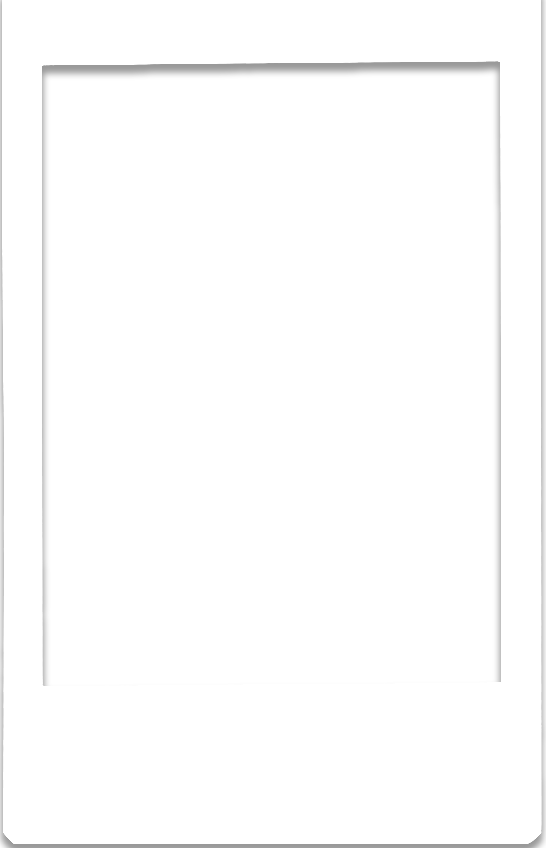
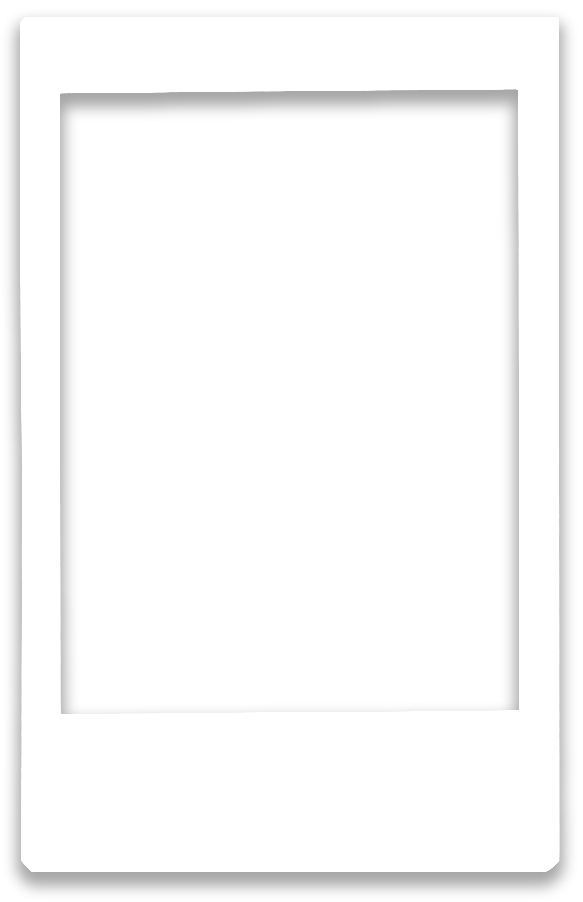
FIX: photoframe 수정 - #11

Changed region(s): [[0.0, 0.0, 1.0, 1.0]]

diff --git a/Wispy/components/FramedImagePreview.js b/Wispy/components/FramedImagePreview.js
@@ -5,20 +5,17 @@ import { View, Text, Image, StyleSheet, Dimensions } from 'react-native';
 const FRAME_IMAGE = require('../assets/images/photoframe.png'); // 실제 경로 확인
 const { width: windowWidth } = Dimensions.get('window');
 
-// 프레임 이미지의 실제 비율과 내부 사진 영역 비율을 알아야 정확한 배치가 가능합니다.
-// 아래 값들은 photoframe.png 이미지에 맞춰 조정해야 합니다.
-// 예시: 프레임 이미지의 가로:세로 비율이 1:1.2 이고,
-// 내부 사진 영역이 프레임 너비의 80%, 높이의 70% 정도라고 가정.
-const FRAME_ASPECT_RATIO = 1 / 1.5; // 프레임의 가로/세로 비율 (조정 필요)
-const PHOTO_AREA_WIDTH_RATIO = 0.84; // 프레임 너비 대비 사진 영역 너비 비율 (조정 필요)
-const PHOTO_AREA_HEIGHT_RATIO = 0.73; // 프레임 높이 대비 사진 영역 높이 비율 (조정 필요)
-const PHOTO_AREA_OFFSET_TOP_RATIO = 0.07; // 프레임 상단에서 사진 영역 시작점 오프셋 비율 (조정 필요)
-const PHOTO_AREA_OFFSET_LEFT_RATIO = 0.075; // 프레임 좌측에서 사진 영역 시작점 오프셋 비율 (조정 필요)
+// 프레임 545 * 845 내부 사진 영역 460 * 620 상단 여백 75 좌우 여백 40 하단 여백 160
+const FRAME_ASPECT_RATIO = 1 / 1.5; // 프레임의 가로/세로 비율
+const PHOTO_AREA_WIDTH_RATIO = 0.84; // 프레임 너비 대비 사진 영역 너비 비율
+const PHOTO_AREA_HEIGHT_RATIO = 0.73; // 프레임 높이 대비 사진 영역 높이 비율
+const PHOTO_AREA_OFFSET_TOP_RATIO = 0.07; // 프레임 상단에서 사진 영역 시작점 오프셋 비율
+const PHOTO_AREA_OFFSET_LEFT_RATIO = 0.075; // 프레임 좌측에서 사진 영역 시작점 오프셋 비율
 
-// 6. 라벨이 위치할 하단 여백의 특성 (사진 영역 하단부터 프레임 하단까지의 높이 비율)
-const LABEL_AREA_HEIGHT_RATIO = 1 - PHOTO_AREA_OFFSET_TOP_RATIO - PHOTO_AREA_HEIGHT_RATIO - 0.03; // 프레임 하단 테두리 두께 제외 (0.03은 예시)
-// 7. 라벨의 상단 위치 (프레임 높이 대비, 사진 영역 바로 아래)
-const LABEL_OFFSET_TOP_RATIO = PHOTO_AREA_OFFSET_TOP_RATIO + PHOTO_AREA_HEIGHT_RATIO + 0.01; // 사진 바로 아래 약간의 여백 (0.01은 예시)
+// 라벨이 위치할 하단 여백의 특성
+const LABEL_AREA_HEIGHT_RATIO = 1 - PHOTO_AREA_OFFSET_TOP_RATIO - PHOTO_AREA_HEIGHT_RATIO - 0.03;
+// 라벨의 상단 위치
+const LABEL_OFFSET_TOP_RATIO = PHOTO_AREA_OFFSET_TOP_RATIO + PHOTO_AREA_HEIGHT_RATIO + 0.01;
 
 
 export default function FramedImagePreview({ imageUri, label, containerWidth }) {
@@ -81,7 +78,6 @@ const styles = StyleSheet.create({
     position: 'absolute',
     left: 0, // photoLeft와 동일하게 설정하여 사진 영역과 좌우 정렬 맞춤
     right: 0, // photoLeft와 동일하게 설정하여 사진 영역과 좌우 정렬 맞춤
-    // top, height는 인라인 스타일로 설정
     justifyContent: 'center', // 텍스트 수직 중앙 정렬
     alignItems: 'center',     // 텍스트 수평 중앙 정렬
     // backgroundColor: 'rgba(0,255,0,0.1)', // 영역 확인용
